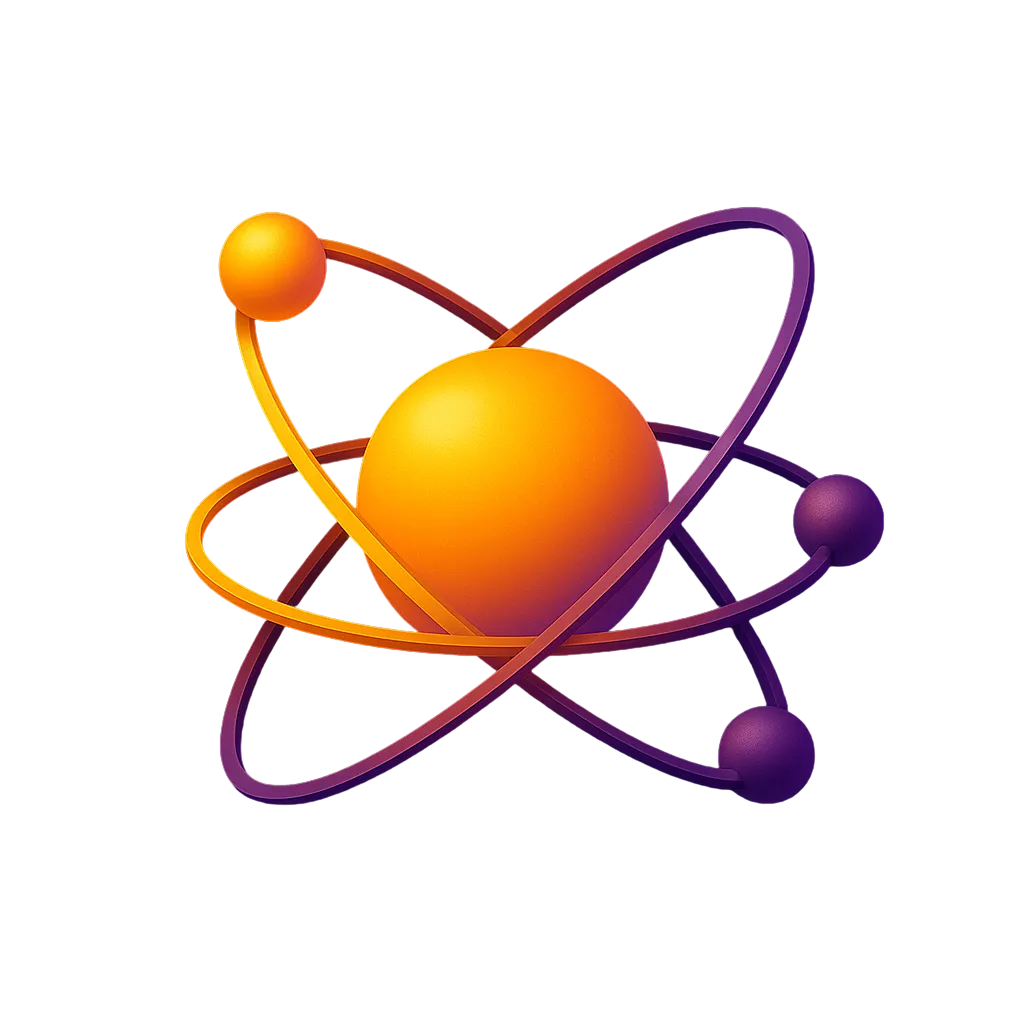
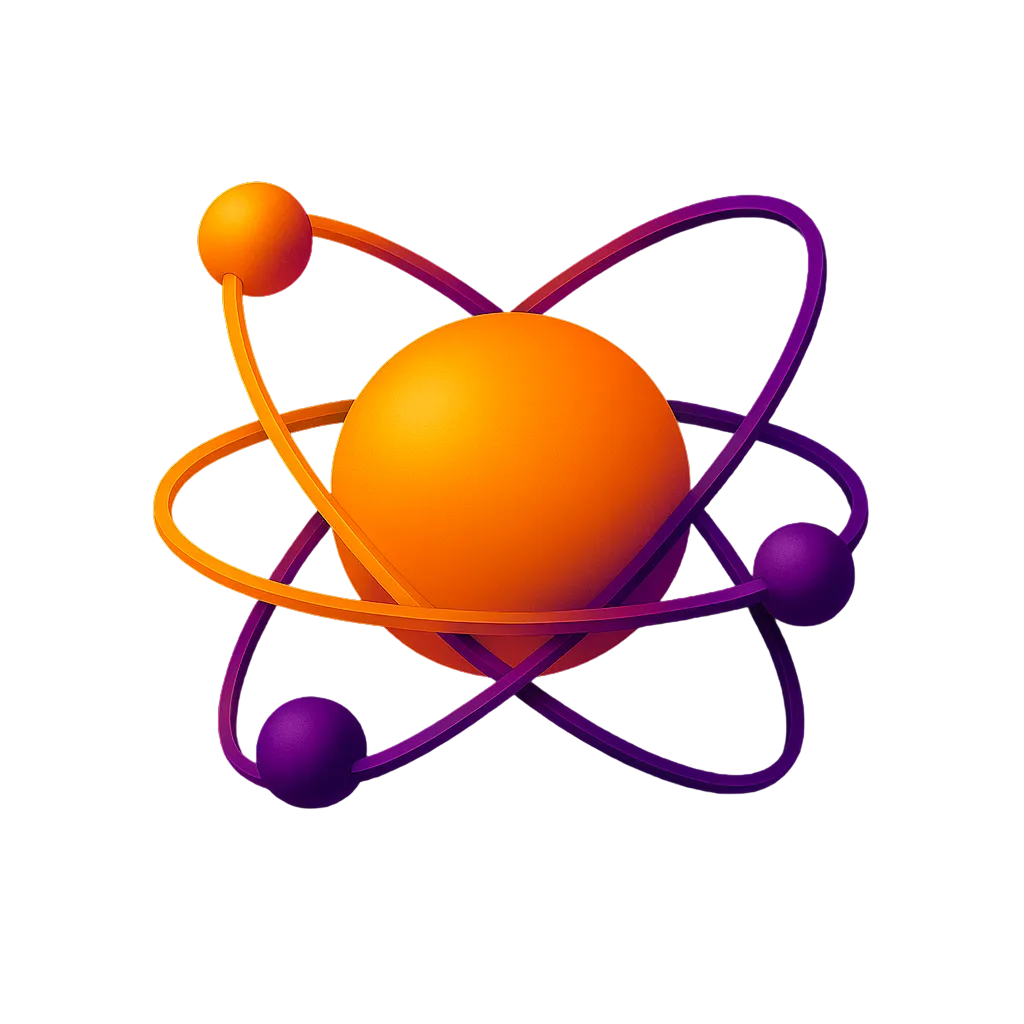
Add Influencers product modal and update product images

Changed region(s): [[0.125, 0.1562, 0.875, 0.8125]]

diff --git a/src/shared/ui/influencers-modal.tsx b/src/shared/ui/influencers-modal.tsx
@@ -1,0 +1,78 @@
+'use client';
+
+import React from 'react';
+
+interface InfluencersModalProps {
+  isOpen: boolean;
+  onClose: () => void;
+}
+
+export const InfluencersModal: React.FC<InfluencersModalProps> = ({ isOpen, onClose }) => {
+  if (!isOpen) return null;
+
+  return (
+    <div className="fixed inset-0 bg-[#1a1a1f] z-50 overflow-y-auto">
+      <div className="w-full min-h-full flex flex-col px-[20px]">
+        {/* Product icon - отступ от верха 48px */}
+        <div className="flex justify-center pt-[48px]">
+          <div className="w-[150px] h-[150px] relative flex-shrink-0">
+            <img
+              src="/assets/products/Influencers.png"
+              alt="Influencers"
+              className="w-full h-full object-contain rounded-lg"
+            />
+          </div>
+        </div>
+
+        {/* Title - отступ от изображения 9px */}
+        <div className="flex justify-center mt-[9px]">
+          <h2 className="text-[28px] font-medium text-white text-center leading-[32px] tracking-[-0.504px] font-inter">
+            Influencers
+          </h2>
+        </div>
+
+        {/* Description - отступ от текста 40px */}
+        <div className="mt-[40px]">
+          <div className="bg-[#2f2f37] rounded-[5px] p-[12px] w-full">
+            <p className="text-[17px] font-medium text-white leading-[24px] tracking-[-0.17px] font-inter">
+              Ищем инфлюенсеров, которые говорят о трейдинге — если тебе это близко, оставляй заявку и давай сотрудничать!
+            </p>
+          </div>
+        </div>
+
+        {/* Website button - отступ от блока с текстом 20px */}
+        <button 
+          onClick={() => window.open('https://telegra.ph/Influencers-11-10-2', '_blank')}
+          className="w-full h-[56px] bg-[rgba(79,79,89,0.24)] rounded-[8px] flex items-center justify-center hover:bg-[rgba(79,79,89,0.4)] transition-colors mt-[20px]"
+        >
+          <span className="text-[17px] font-semibold text-[#ebebf2] leading-[24px] tracking-[-0.204px] font-inter">
+            Гайд по продукту
+          </span>
+        </button>
+
+        {/* Survey button - отступ от кнопки "Гайд по продукту" 10px */}
+        <button 
+          onClick={() => window.open('https://simpoll.ru/run/survey/cbd4c1fb', '_blank')}
+          className="w-full h-[56px] btn-gradient transition-opacity hover:opacity-90 mt-[10px]"
+        >
+          <span className="text-[17px] font-semibold text-white leading-[24px] tracking-[-0.204px] font-inter">
+            Отправить заявку
+          </span>
+        </button>
+
+        {/* Back button - отступ от кнопки "Отправить заявку" 108px */}
+        <div className="mt-[108px] pb-[40px]">
+          <button
+            onClick={onClose}
+            className="w-full h-[56px] bg-[rgba(79,79,89,0.24)] rounded-[8px] flex items-center justify-center hover:bg-[rgba(79,79,89,0.4)] transition-colors"
+          >
+            <span className="text-[17px] font-semibold text-[#ebebf2] leading-[24px] tracking-[-0.204px] font-inter">
+              Назад
+            </span>
+          </button>
+        </div>
+      </div>
+    </div>
+  );
+};
+

diff --git a/src/widgets/products-page/ui/products-page.tsx b/src/widgets/products-page/ui/products-page.tsx
@@ -14,6 +14,7 @@ import { ComonModal } from '@/shared/ui/comon-modal';
 import { EducationalCenterModal } from '@/shared/ui/educational-center-modal';
 import { OptionMakerModal } from '@/shared/ui/option-maker-modal';
 import { AlphaBuilderModal } from '@/shared/ui/alpha-builder-modal';
+import { InfluencersModal } from '@/shared/ui/influencers-modal';
 import { useAppStore } from '@/shared/store/app-store';
 
 type ModalType = 
@@ -28,6 +29,7 @@ type ModalType =
   | 'educationalCenter'
   | 'optionMaker'
   | 'alphaBuilder'
+  | 'influencers'
   | null;
 
 export const ProductsPage: React.FC = () => {
@@ -88,6 +90,10 @@ export const ProductsPage: React.FC = () => {
     { 
       title: 'Alpha Builder', 
       onClick: () => handleOpenModal('alphaBuilder')
+    },
+    { 
+      title: 'Influencers', 
+      onClick: () => handleOpenModal('influencers')
     },
   ];
 
@@ -221,6 +227,12 @@ export const ProductsPage: React.FC = () => {
       {/* Alpha Builder Modal */}
       <AlphaBuilderModal
         isOpen={activeModal === 'alphaBuilder'}
+        onClose={handleCloseModal}
+      />
+      
+      {/* Influencers Modal */}
+      <InfluencersModal
+        isOpen={activeModal === 'influencers'}
         onClose={handleCloseModal}
       />
     </div>
